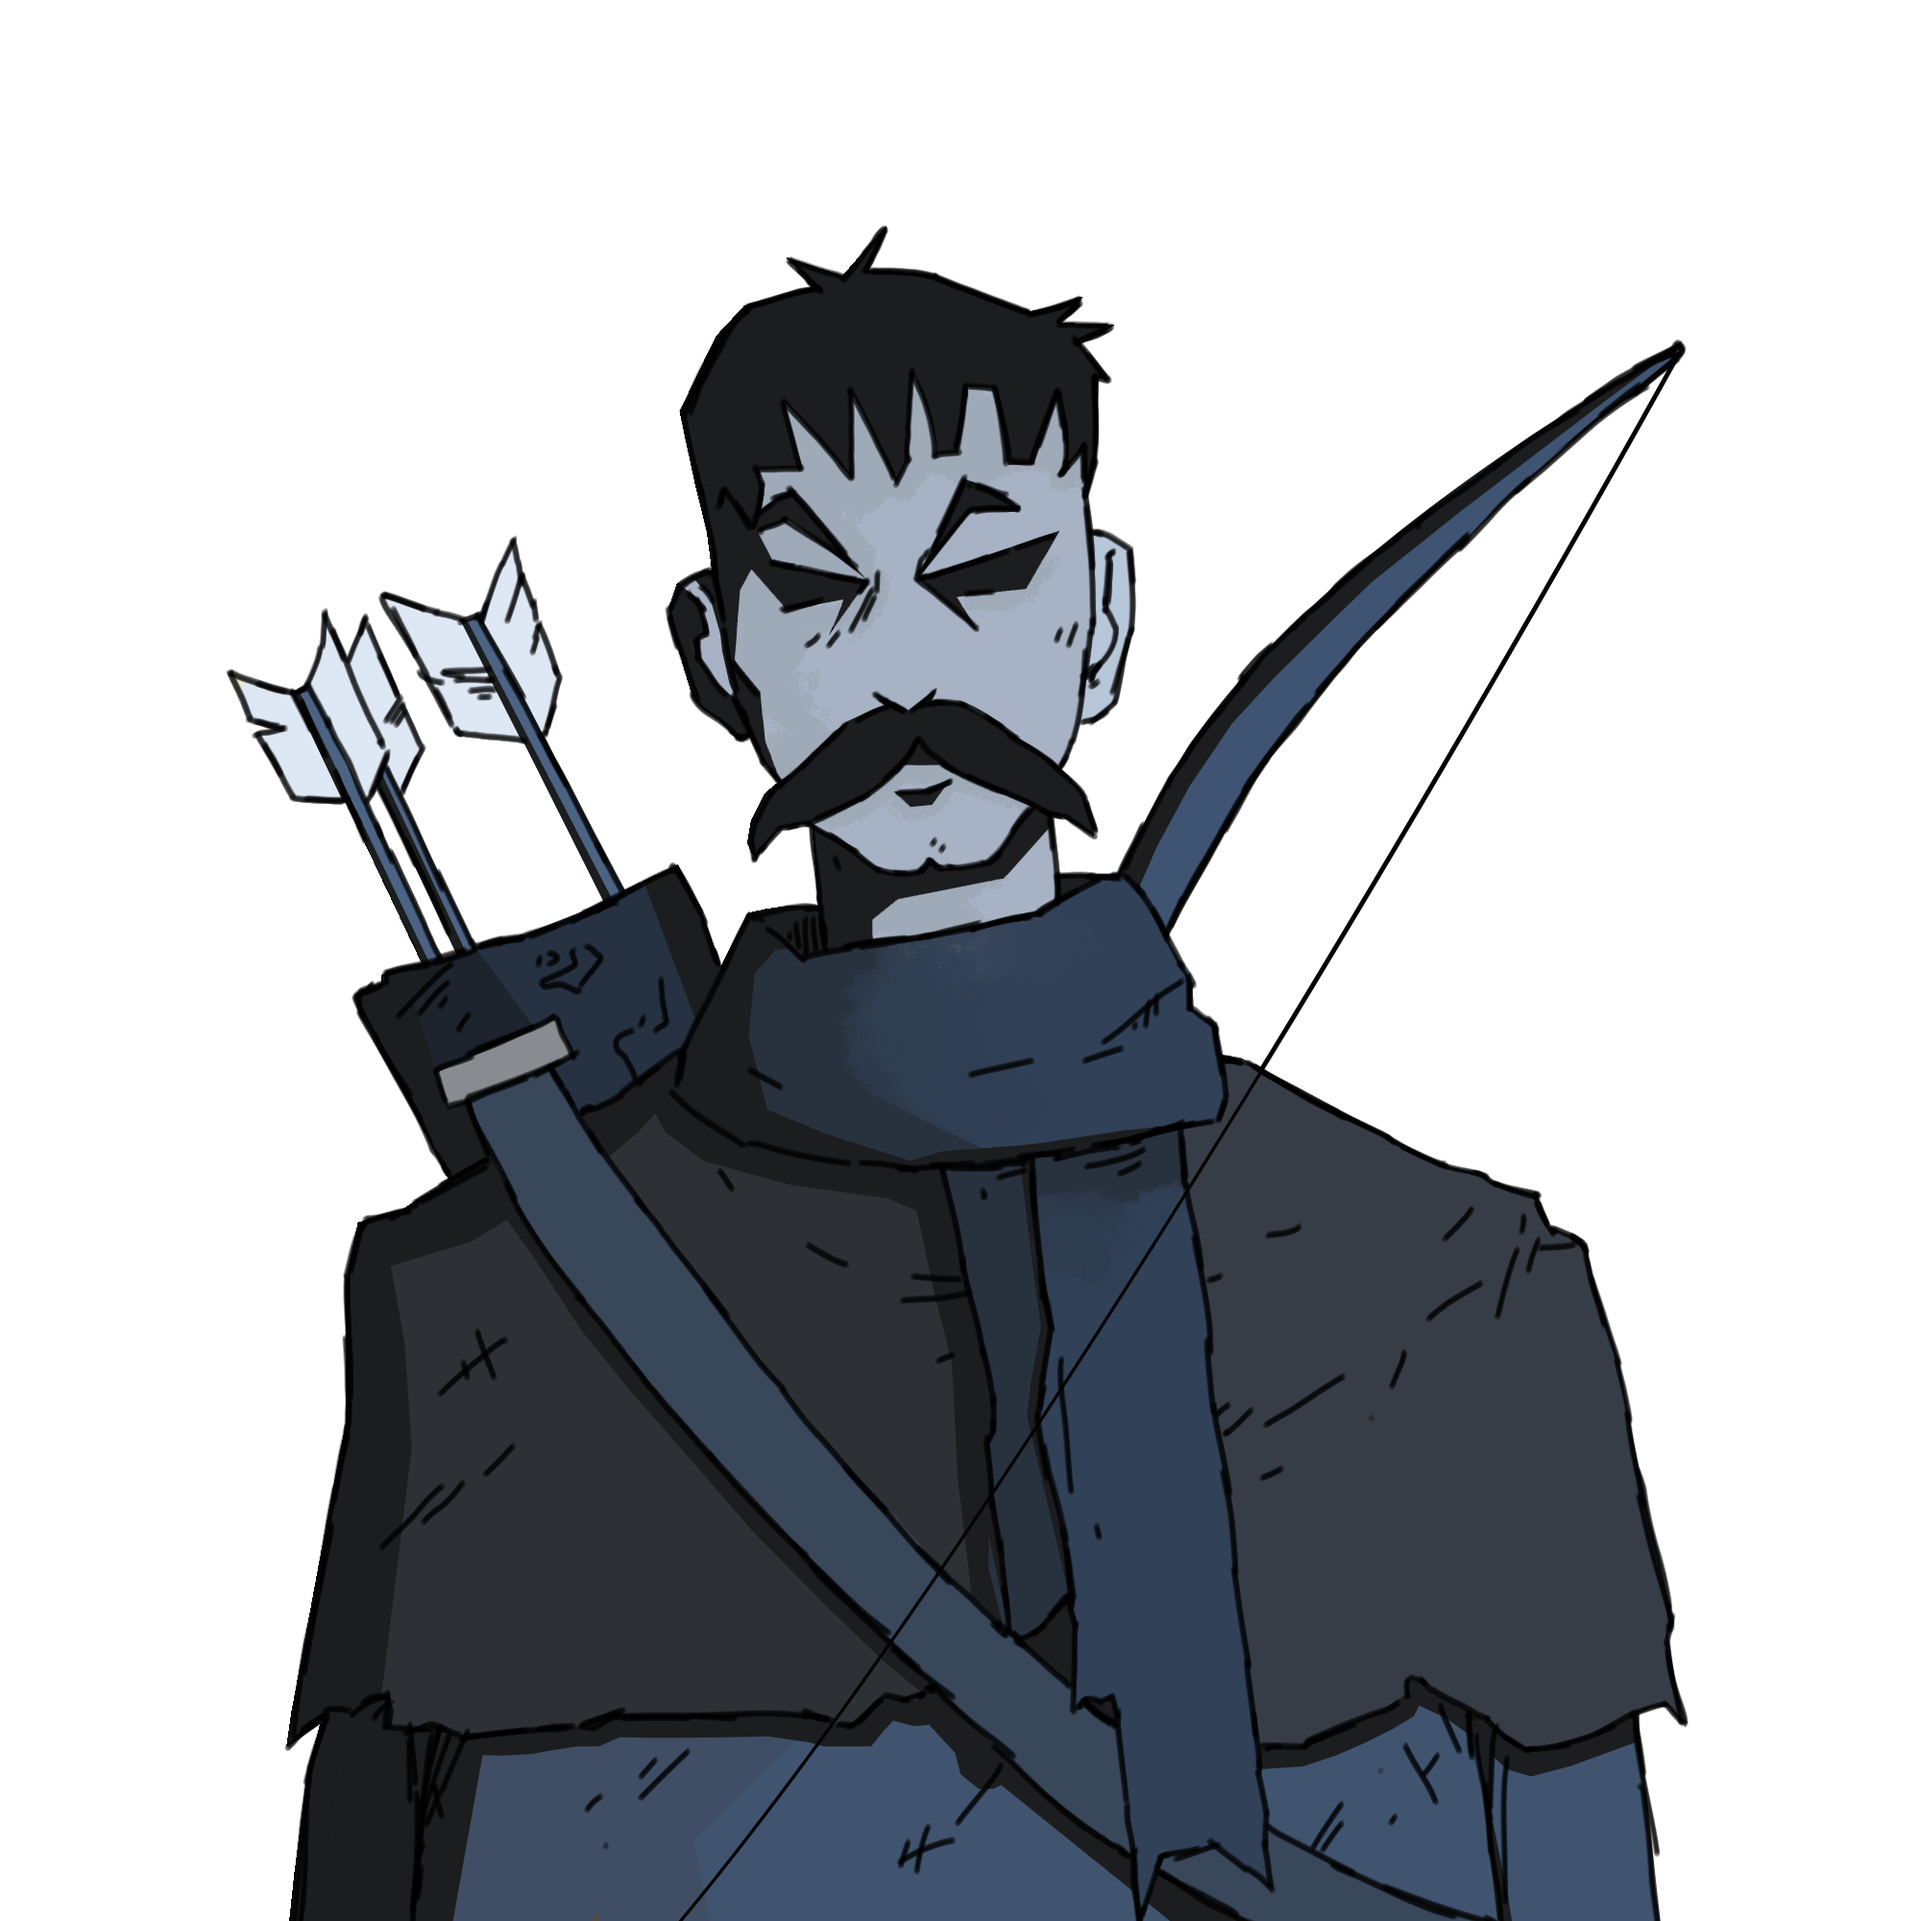
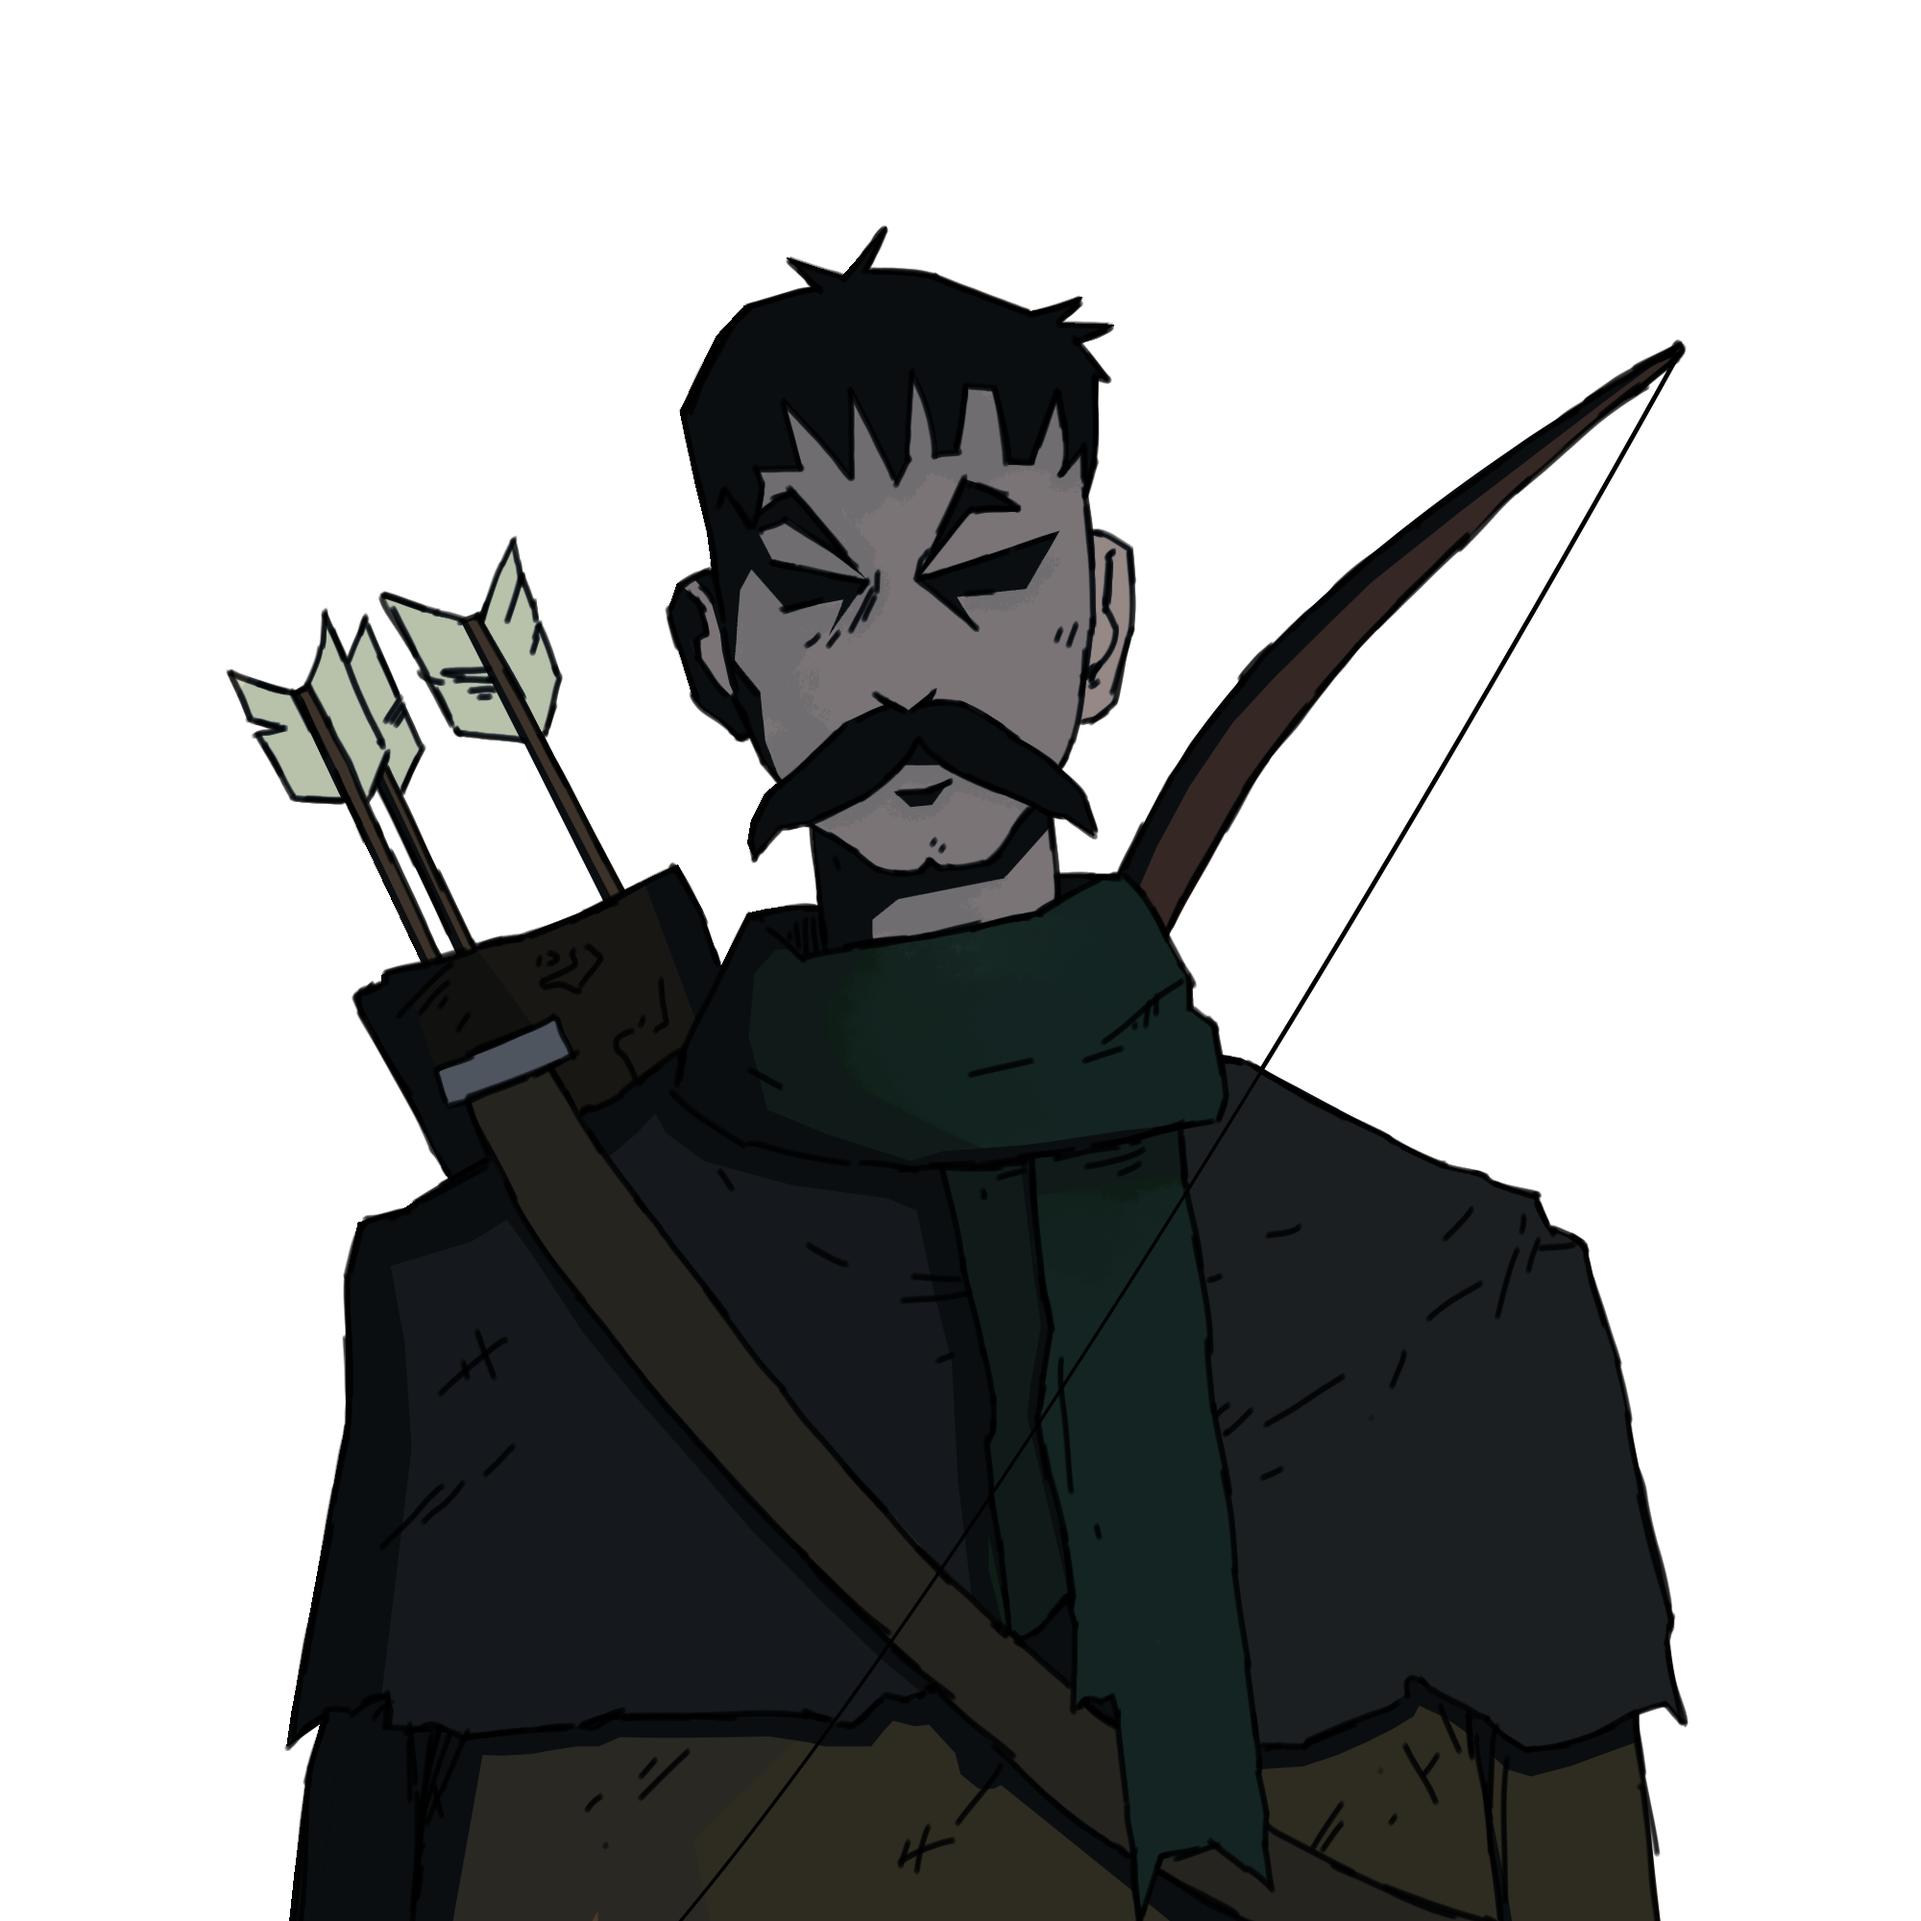
smaller changes regarding new images (other hunter picture and spacing adjusted at some places)

diff --git a/src/styles/ui/RoleColumn.scss b/src/styles/ui/RoleColumn.scss
@@ -3,6 +3,14 @@
   width: 100%;
   justify-content: space-evenly;
 
+  h2 {
+    margin-bottom: 20px;
+  }
+
+  h5 {
+    margin-top: 20px;
+  }
+
   .individual-role {
     @include center;
     flex-direction: column;

diff --git a/src/styles/ui/EventLog.scss b/src/styles/ui/EventLog.scss
@@ -88,7 +88,8 @@
       background-position: top right, bottom left;
 
       .profile {
-        margin-bottom: 25px;
+        margin-top: 5px;
+        margin-bottom: 30px;
       }
     }
 
